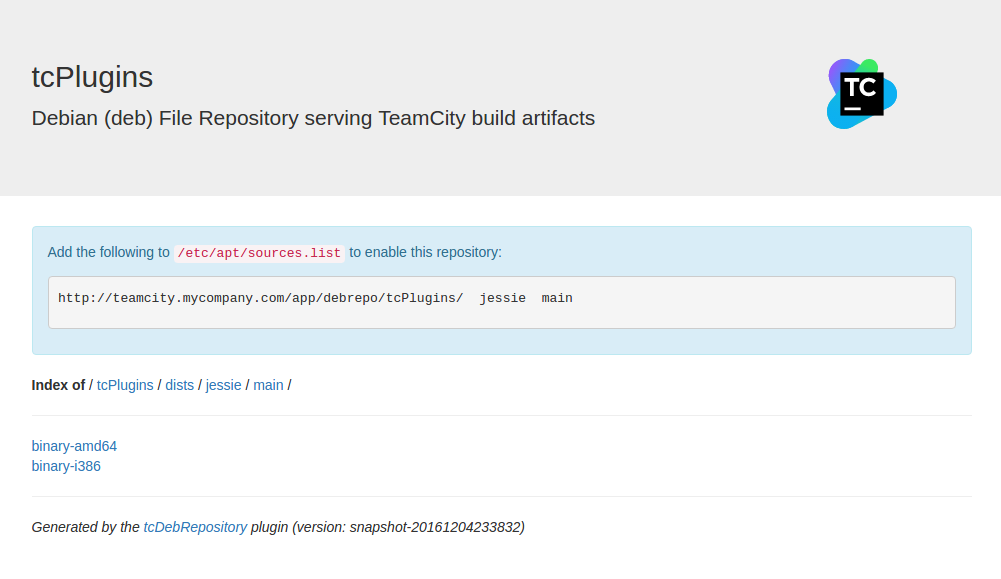
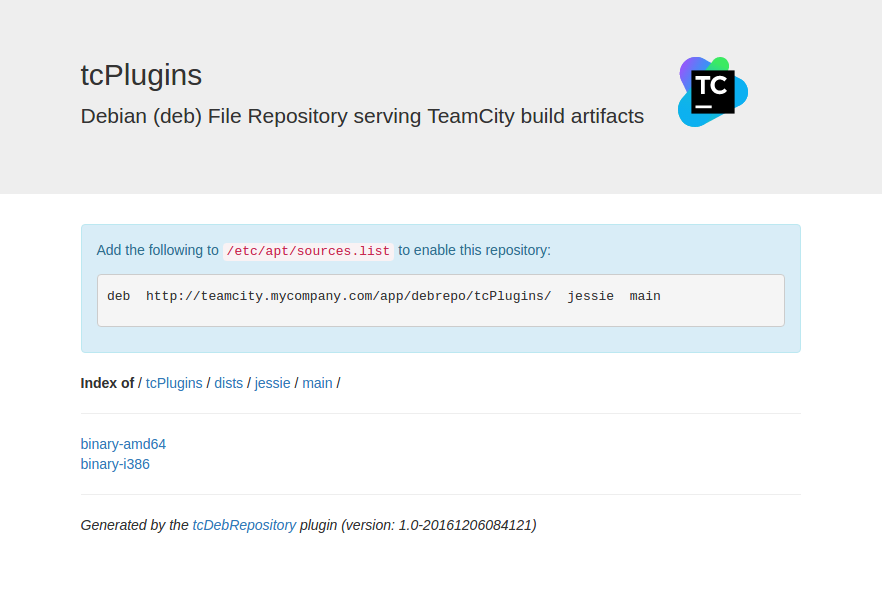
Update to readme.md and build number

diff --git a/readme.md b/readme.md
@@ -16,7 +16,7 @@ This line is made up of the following space delimited tokens:
 	deb URL dist component
 
 - deb : Tells APT to use this configuration for binary DEB package files. deb-src is also used for downloading source code packages, although tcDebRepository does not currently support deb-src 
-- URL : The base URL of the repository. APT expects a specific URL structure of which this is the root. For more details see <tcdebrepo-server/RepositoryNotes.md>.
+- URL : The base URL of the repository. APT expects a specific URL structure of which this is the root. For more details see [RepositoryNotes](https://github.com/tcplugins/tcDebRepository/blob/master/tcdebrepo-server/RespositoryNotes.md).
 - dist : The Debian distribution name. In the example above, `jessie` is the Debian distribution name.
 - component : The component(s) that this repository serves. Typical values for component are: `main, stable, unstable, testing, experimental`.
 
@@ -80,18 +80,18 @@ The tcDebRepository plugin has been tested on TeamCity 8.1.5, 9.1.7, 10.0.2 on O
  ---------------- | ------------ | ------
  10.0.2 | 1.8.0_65-b17 | All services and UI working correctly
  9.1.7  | 1.7.0_65-b17 | All services and UI working correctly
- 8.1.5  | 1.7.0_65-b17 | All services working correctly. Repositories need to be manually edited* - .BuildServer/config/deb-repositories.xml
+ 8.1.5  | 1.7.0_65-b17 | All services working correctly. Repositories need to be manually edited* by editing `.BuildServer/config/deb-repositories.xml` on the server
  
- I do intend to resolve UI issues on TC8 in future.
+ *I do intend to resolve UI issues on TC8 in future.
  
 #### Debian Versions
  Distro | Version | Result
  ------ | ------- | ------
- Debian | wheezy | Packages install correctly when pass in `--force-yes` option
- Debian | jessie | Packages install correctly when pass in `--force-yes` option
- Ubuntu | precise | Packages install correctly when pass in `--force-yes` option
- Ubuntu | wily | Packages install correctly when pass in `--force-yes` option
- Ubuntu | xenial | Packages fail to install. Probably due to unsigned repository
- Ubuntu | zesty  | Packages fail to install. Probably due to unsigned repository
+ Debian | wheezy | Packages install correctly when passing in `--force-yes` option
+ Debian | jessie | Packages install correctly when passing in `--force-yes` option
+ Ubuntu | precise | Packages install correctly when passing in `--force-yes` option
+ Ubuntu | wily | Packages install correctly when passing in `--force-yes` option
+ Ubuntu | xenial | Packages fail to install. Probably due to unsigned repository. To be resolved in tcDebRepository v1.1
+ Ubuntu | zesty  | Packages fail to install. Probably due to unsigned repository. To be resolved in tcDebRepository v1.1
  
 
